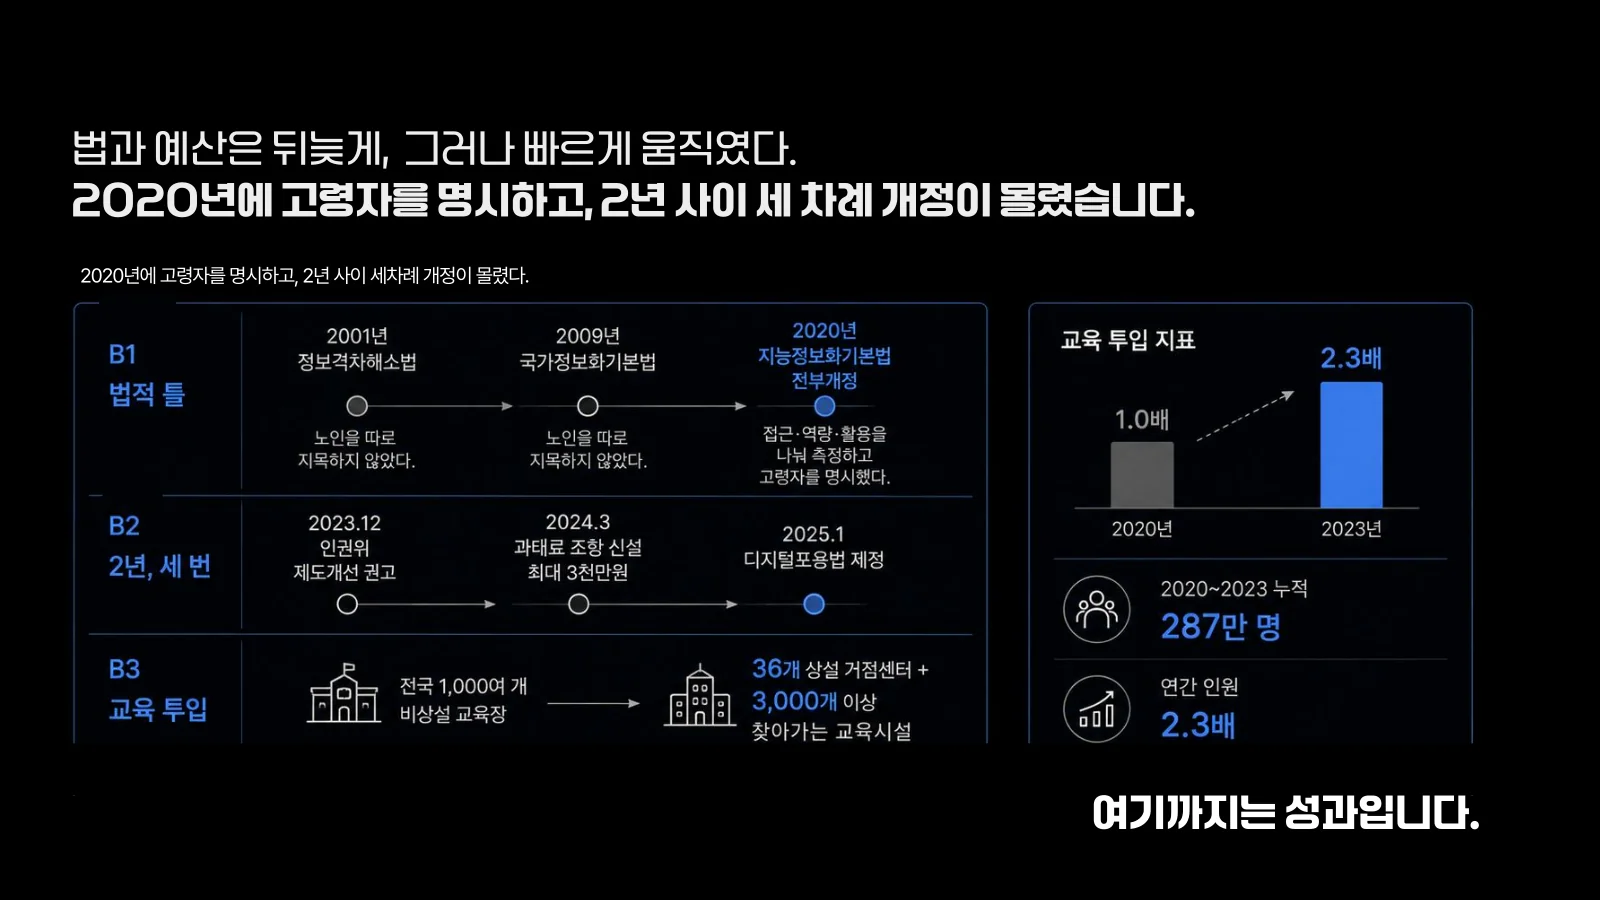
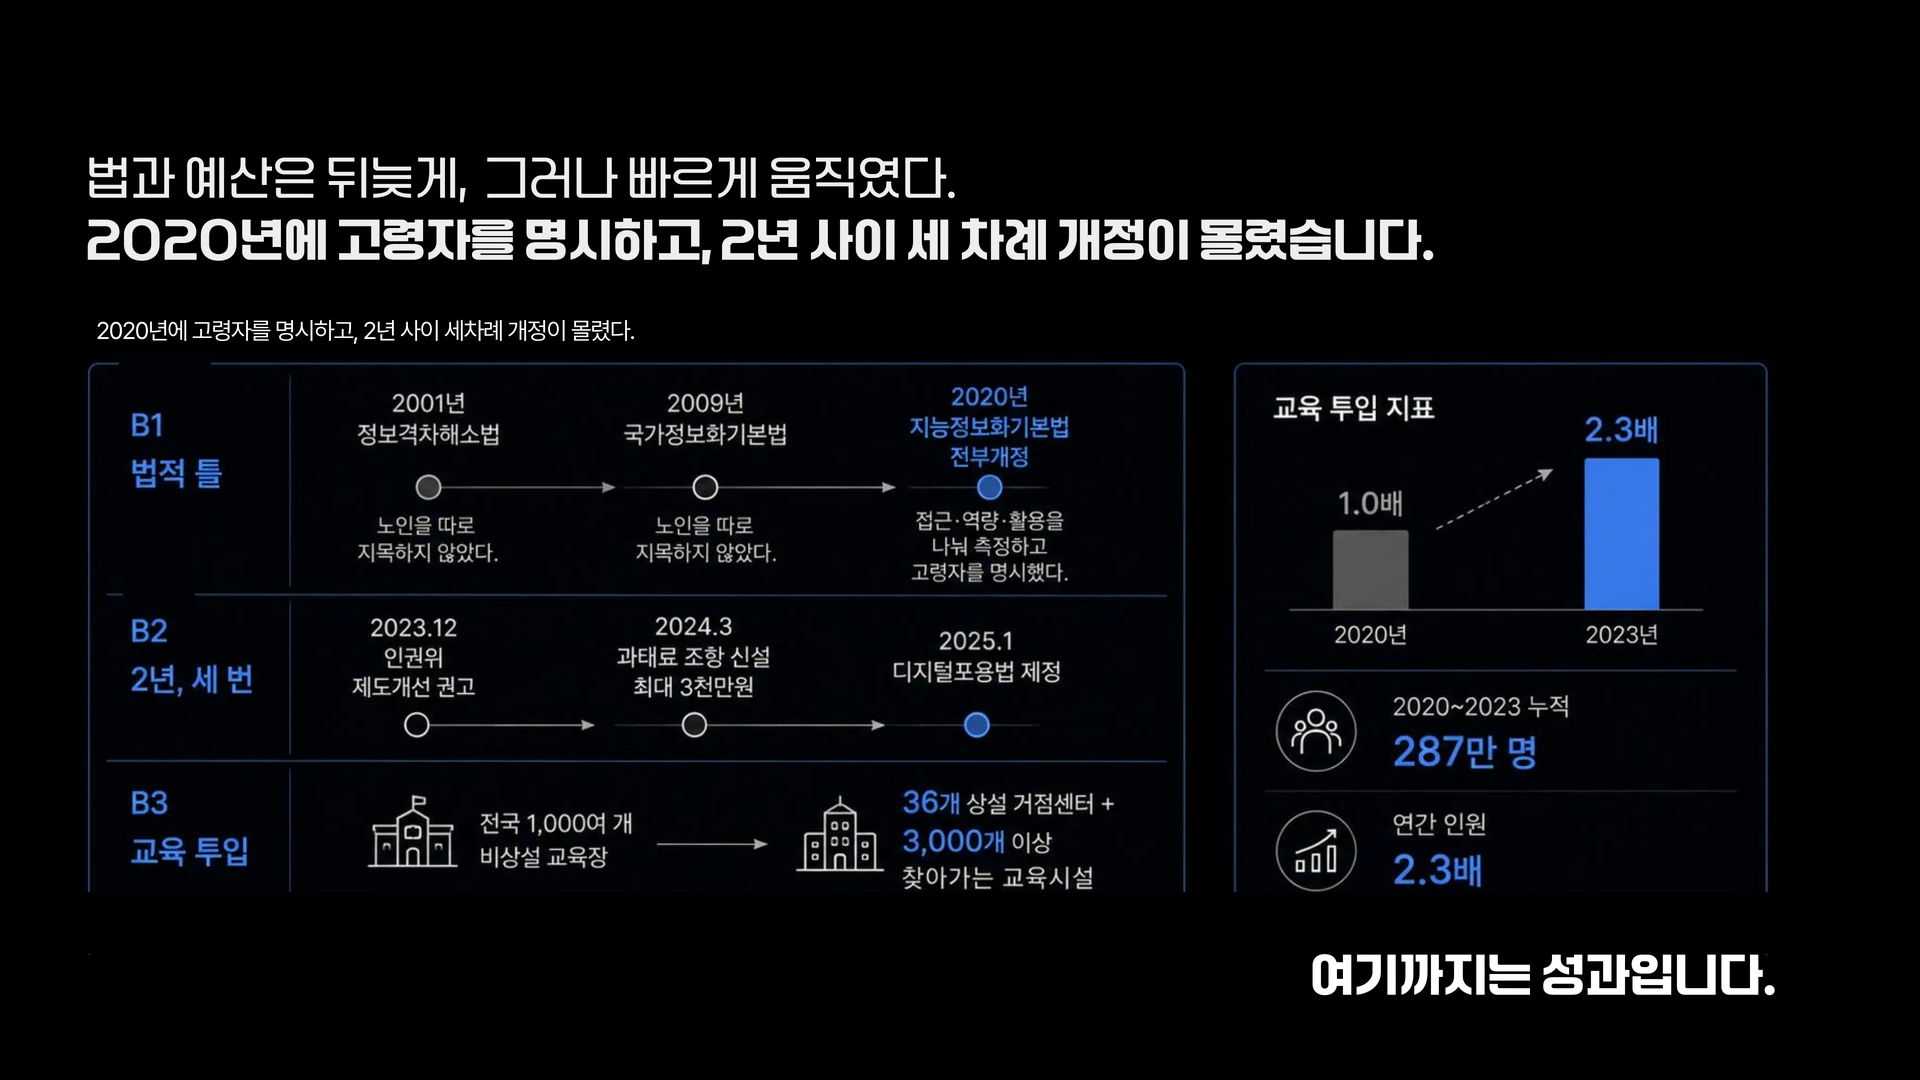
site: re-render pages at 1920/3840px with srcset for high-DPI displays
Claude-Session: https://claude.ai/code/session_01HavUBXK1h9WYcbrbWzbSrF

diff --git a/index.html b/index.html
@@ -44,7 +44,7 @@
   </header>
 
   <div id="stage">
-    <img id="slide" alt="slide" draggable="false">
+    <img id="slide" alt="slide" draggable="false" sizes="100vw">
     <button id="prev" class="nav" aria-label="이전 페이지">‹</button>
     <button id="next" class="nav" aria-label="다음 페이지">›</button>
   </div>
@@ -62,12 +62,14 @@
       var slide = document.getElementById('slide'), range = document.getElementById('range'), counter = document.getElementById('counter');
       var bprev = document.getElementById('bprev'), bnext = document.getElementById('bnext');
       var cache = {};
-      function src(n) { return './pages/p-' + (n < 10 ? '0' + n : n) + '.webp'; }
-      function preload(n) { if (n >= 1 && n <= TOTAL && !cache[n]) { var i = new Image(); i.src = src(n); cache[n] = i; } }
+      function pad(n) { return n < 10 ? '0' + n : '' + n; }
+      function src(n) { return './pages/p-' + pad(n) + '.webp'; }
+      function srcset(n) { return './pages/p-' + pad(n) + '.webp 1920w, ./pages/p-' + pad(n) + '@2x.webp 3840w'; }
+      function preload(n) { if (n >= 1 && n <= TOTAL && !cache[n]) { var i = new Image(); i.sizes = '100vw'; i.srcset = srcset(n); i.src = src(n); cache[n] = i; } }
       function go(n, push) {
         n = Math.max(1, Math.min(TOTAL, n | 0));
         cur = n;
-        slide.src = src(n); slide.alt = 'page ' + n + ' / ' + TOTAL;
+        slide.sizes = '100vw'; slide.srcset = srcset(n); slide.src = src(n); slide.alt = 'page ' + n + ' / ' + TOTAL;
         range.value = n; counter.textContent = n + ' / ' + TOTAL;
         bprev.disabled = (n === 1); bnext.disabled = (n === TOTAL);
         if (push !== false) history.replaceState(null, '', '#' + n);
